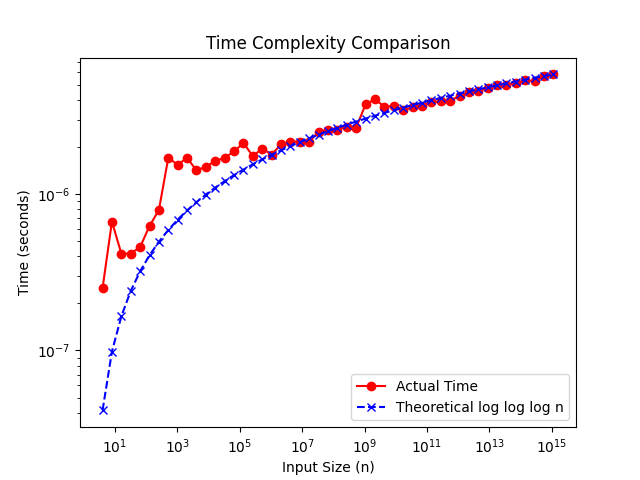
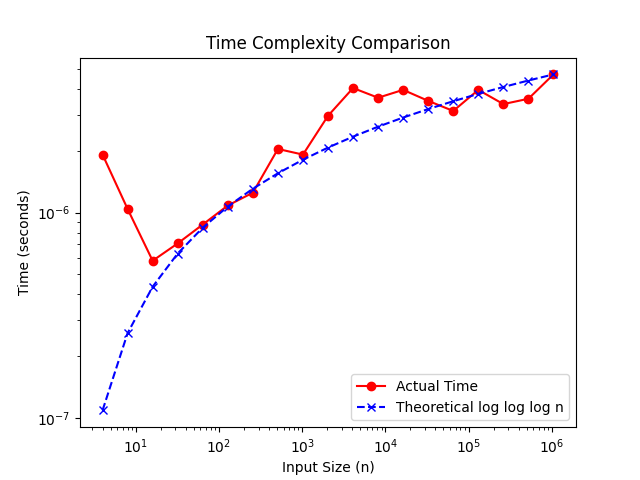
secondary  commit

diff --git a/timecomplexity.py b/timecomplexity.py
@@ -1,7 +1,6 @@
 import math
 import time
 import matplotlib.pyplot as plt
-import numpy as np# Sample data - generating random data points using normal distribution
 def generate_inputsize(start,end):
     return [2**i for i in range(start, end + 1)]
 def calculatetime(n):
@@ -11,13 +10,13 @@ def calculatetime(n):
         k=j 
         sum1=0
         while(k<n):
-            sum1+=j+k
+            sum1+=a[j]+b[k]
             k=k*k
         j=j*2
     end=time.perf_counter()
     return end-start
-    
-inputarray = generate_inputsize(2,50)
+inputarray = generate_inputsize(2,20)
+a,b=[i for i in range (1,inputarray[-1]+1)],[j for j in range (1,inputarray[-1]+1)]
 timetaken={}
 for i in inputarray:
     timetaken[i]=calculatetime(i)
@@ -27,7 +26,6 @@ for i in inputarray:
     theoreticalvalues[i]=theoreticalvalues[i] = timetaken[inputarray[-1]] * (math.log2(i) * math.log2(math.log2(i))) / (math.log2(inputarray[-1]) * math.log2(math.log2(inputarray[-1])))
     print(f" Theoretical Time taken for input size {i} : {theoreticalvalues[i]:0.10f}")
     
-
 plt.plot(inputarray,timetaken.values(), marker='o', linestyle='-', color='r',label='Actual Time')
 plt.plot(inputarray,theoreticalvalues.values(),marker='x',color='b',linestyle='--',label='Theoretical log log log n')
 plt.title("Time Complexity Comparison")
